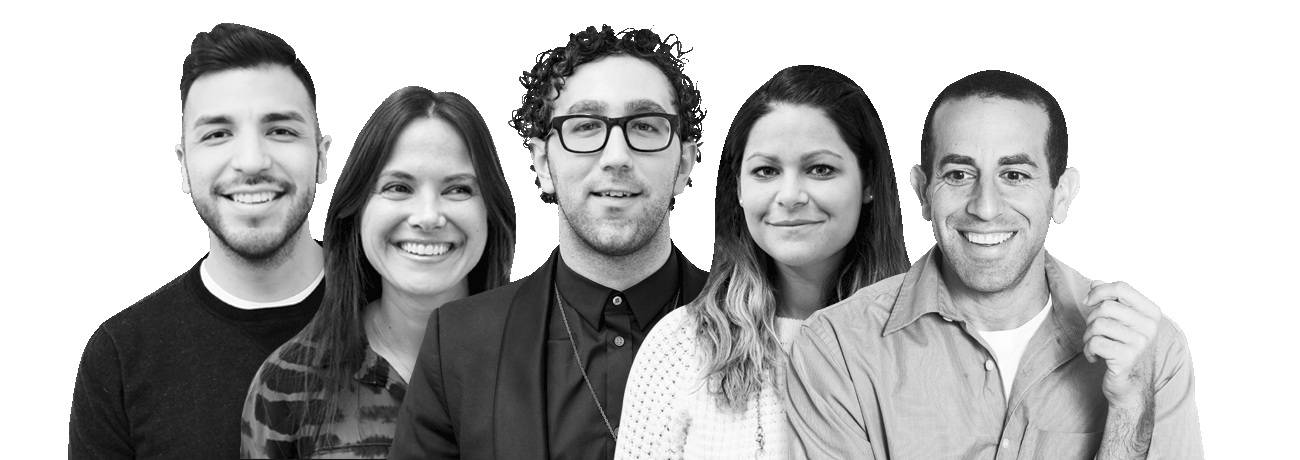
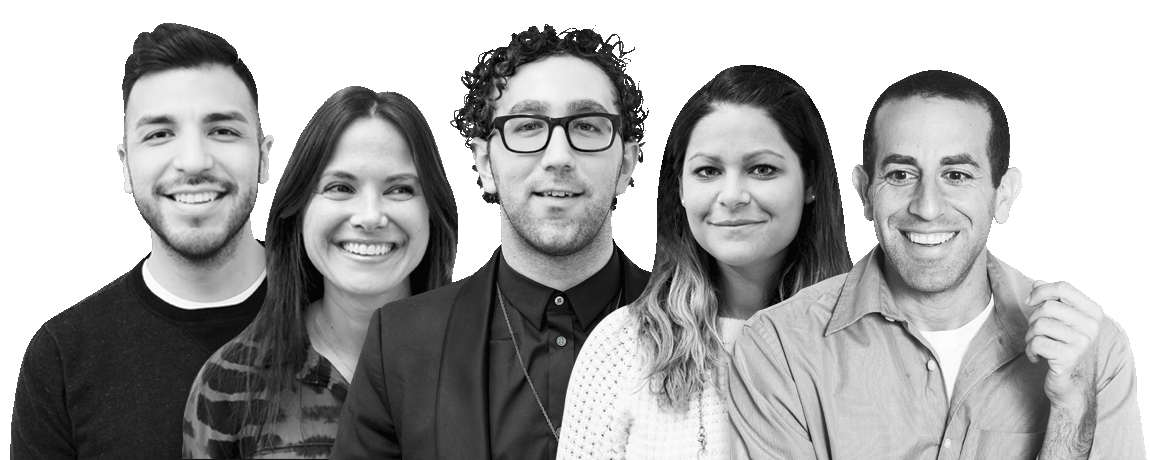
integrated jasny for the navbar

diff --git a/css/jasny-bootstrap.min.css b/css/jasny-bootstrap.min.css
@@ -1,0 +1,7 @@
+/*!
+ * Jasny Bootstrap v3.1.3 (http://jasny.github.io/bootstrap)
+ * Copyright 2012-2014 Arnold Daniels
+ * Licensed under Apache-2.0 (https://github.com/jasny/bootstrap/blob/master/LICENSE)
+ */
+
+.container-smooth{max-width:1170px}@media (min-width:1px){.container-smooth{width:auto}}.btn-labeled{padding-top:0;padding-bottom:0}.btn-label{position:relative;background:0 0;background:rgba(0,0,0,.15);display:inline-block;padding:6px 12px;left:-12px;border-radius:3px 0 0 3px}.btn-label.btn-label-right{left:auto;right:-12px;border-radius:0 3px 3px 0}.btn-lg .btn-label{padding:10px 16px;left:-16px;border-radius:5px 0 0 5px}.btn-lg .btn-label.btn-label-right{left:auto;right:-16px;border-radius:0 5px 5px 0}.btn-sm .btn-label{padding:5px 10px;left:-10px;border-radius:2px 0 0 2px}.btn-sm .btn-label.btn-label-right{left:auto;right:-10px;border-radius:0 2px 2px 0}.btn-xs .btn-label{padding:1px 5px;left:-5px;border-radius:2px 0 0 2px}.btn-xs .btn-label.btn-label-right{left:auto;right:-5px;border-radius:0 2px 2px 0}.nav-tabs-bottom{border-bottom:0;border-top:1px solid #ddd}.nav-tabs-bottom>li{margin-bottom:0;margin-top:-1px}.nav-tabs-bottom>li>a{border-radius:0 0 4px 4px}.nav-tabs-bottom>li>a:hover,.nav-tabs-bottom>li>a:focus,.nav-tabs-bottom>li.active>a,.nav-tabs-bottom>li.active>a:hover,.nav-tabs-bottom>li.active>a:focus{border:1px solid #ddd;border-top-color:transparent}.nav-tabs-left{border-bottom:0;border-right:1px solid #ddd}.nav-tabs-left>li{margin-bottom:0;margin-right:-1px;float:none}.nav-tabs-left>li>a{border-radius:4px 0 0 4px;margin-right:0;margin-bottom:2px}.nav-tabs-left>li>a:hover,.nav-tabs-left>li>a:focus,.nav-tabs-left>li.active>a,.nav-tabs-left>li.active>a:hover,.nav-tabs-left>li.active>a:focus{border:1px solid #ddd;border-right-color:transparent}.row>.nav-tabs-left{padding-right:0;padding-left:15px;margin-right:-1px;position:relative;z-index:1}.row>.nav-tabs-left+.tab-content{border-left:1px solid #ddd}.nav-tabs-right{border-bottom:0;border-left:1px solid #ddd}.nav-tabs-right>li{margin-bottom:0;margin-left:-1px;float:none}.nav-tabs-right>li>a{border-radius:0 4px 4px 0;margin-left:0;margin-bottom:2px}.nav-tabs-right>li>a:hover,.nav-tabs-right>li>a:focus,.nav-tabs-right>li.active>a,.nav-tabs-right>li.active>a:hover,.nav-tabs-right>li.active>a:focus{border:1px solid #ddd;border-left-color:transparent}.row>.nav-tabs-right{padding-left:0;padding-right:15px}.navmenu,.navbar-offcanvas{width:300px;height:auto;border-width:1px;border-style:solid;border-radius:4px}.navmenu-fixed-left,.navmenu-fixed-right,.navbar-offcanvas{position:fixed;z-index:1030;top:0;bottom:0;overflow-y:auto;border-radius:0}.navmenu-fixed-left,.navbar-offcanvas.navmenu-fixed-left{left:0;right:auto;border-width:0 1px 0 0}.navmenu-fixed-right,.navbar-offcanvas{left:auto;right:0;border-width:0 0 0 1px}.navmenu-nav{margin-bottom:10px}.navmenu-nav.dropdown-menu{position:static;margin:0;padding-top:0;float:none;border:none;-webkit-box-shadow:none;box-shadow:none;border-radius:0}.navbar-offcanvas .navbar-nav{margin:0}@media (min-width:768px){.navbar-offcanvas{width:auto;border-top:0;box-shadow:none}.navbar-offcanvas.offcanvas{position:static;display:block!important;height:auto!important;padding-bottom:0;overflow:visible!important}.navbar-offcanvas .navbar-nav.navbar-left:first-child{margin-left:-15px}.navbar-offcanvas .navbar-nav.navbar-right:last-child{margin-right:-15px}.navbar-offcanvas .navmenu-brand{display:none}}.navmenu-brand{display:block;font-size:18px;line-height:20px;padding:10px 15px;margin:10px 0}.navmenu-brand:hover,.navmenu-brand:focus{text-decoration:none}.navmenu-default,.navbar-default .navbar-offcanvas{background-color:#f8f8f8;border-color:#e7e7e7}.navmenu-default .navmenu-brand,.navbar-default .navbar-offcanvas .navmenu-brand{color:#777}.navmenu-default .navmenu-brand:hover,.navbar-default .navbar-offcanvas .navmenu-brand:hover,.navmenu-default .navmenu-brand:focus,.navbar-default .navbar-offcanvas .navmenu-brand:focus{color:#5e5e5e;background-color:transparent}.navmenu-default .navmenu-text,.navbar-default .navbar-offcanvas .navmenu-text{color:#777}.navmenu-default .navmenu-nav>.dropdown>a:hover .caret,.navbar-default .navbar-offcanvas .navmenu-nav>.dropdown>a:hover .caret,.navmenu-default .navmenu-nav>.dropdown>a:focus .caret,.navbar-default .navbar-offcanvas .navmenu-nav>.dropdown>a:focus .caret{border-top-color:#333;border-bottom-color:#333}.navmenu-default .navmenu-nav>.open>a,.navbar-default .navbar-offcanvas .navmenu-nav>.open>a,.navmenu-default .navmenu-nav>.open>a:hover,.navbar-default .navbar-offcanvas .navmenu-nav>.open>a:hover,.navmenu-default .navmenu-nav>.open>a:focus,.navbar-default .navbar-offcanvas .navmenu-nav>.open>a:focus{background-color:#e7e7e7;color:#555}.navmenu-default .navmenu-nav>.open>a .caret,.navbar-default .navbar-offcanvas .navmenu-nav>.open>a .caret,.navmenu-default .navmenu-nav>.open>a:hover .caret,.navbar-default .navbar-offcanvas .navmenu-nav>.open>a:hover .caret,.navmenu-default .navmenu-nav>.open>a:focus .caret,.navbar-default .navbar-offcanvas .navmenu-nav>.open>a:focus .caret{border-top-color:#555;border-bottom-color:#555}.navmenu-default .navmenu-nav>.dropdown>a .caret,.navbar-default .navbar-offcanvas .navmenu-nav>.dropdown>a .caret{border-top-color:#777;border-bottom-color:#777}.navmenu-default .navmenu-nav.dropdown-menu,.navbar-default .navbar-offcanvas .navmenu-nav.dropdown-menu{background-color:#e7e7e7}.navmenu-default .navmenu-nav.dropdown-menu>.divider,.navbar-default .navbar-offcanvas .navmenu-nav.dropdown-menu>.divider{background-color:#f8f8f8}.navmenu-default .navmenu-nav.dropdown-menu>.active>a,.navbar-default .navbar-offcanvas .navmenu-nav.dropdown-menu>.active>a,.navmenu-default .navmenu-nav.dropdown-menu>.active>a:hover,.navbar-default .navbar-offcanvas .navmenu-nav.dropdown-menu>.active>a:hover,.navmenu-default .navmenu-nav.dropdown-menu>.active>a:focus,.navbar-default .navbar-offcanvas .navmenu-nav.dropdown-menu>.active>a:focus{background-color:#d7d7d7}.navmenu-default .navmenu-nav>li>a,.navbar-default .navbar-offcanvas .navmenu-nav>li>a{color:#777}.navmenu-default .navmenu-nav>li>a:hover,.navbar-default .navbar-offcanvas .navmenu-nav>li>a:hover,.navmenu-default .navmenu-nav>li>a:focus,.navbar-default .navbar-offcanvas .navmenu-nav>li>a:focus{color:#333;background-color:transparent}.navmenu-default .navmenu-nav>.active>a,.navbar-default .navbar-offcanvas .navmenu-nav>.active>a,.navmenu-default .navmenu-nav>.active>a:hover,.navbar-default .navbar-offcanvas .navmenu-nav>.active>a:hover,.navmenu-default .navmenu-nav>.active>a:focus,.navbar-default .navbar-offcanvas .navmenu-nav>.active>a:focus{color:#555;background-color:#e7e7e7}.navmenu-default .navmenu-nav>.disabled>a,.navbar-default .navbar-offcanvas .navmenu-nav>.disabled>a,.navmenu-default .navmenu-nav>.disabled>a:hover,.navbar-default .navbar-offcanvas .navmenu-nav>.disabled>a:hover,.navmenu-default .navmenu-nav>.disabled>a:focus,.navbar-default .navbar-offcanvas .navmenu-nav>.disabled>a:focus{color:#ccc;background-color:transparent}.navmenu-inverse,.navbar-inverse .navbar-offcanvas{background-color:#222;border-color:#080808}.navmenu-inverse .navmenu-brand,.navbar-inverse .navbar-offcanvas .navmenu-brand{color:#999}.navmenu-inverse .navmenu-brand:hover,.navbar-inverse .navbar-offcanvas .navmenu-brand:hover,.navmenu-inverse .navmenu-brand:focus,.navbar-inverse .navbar-offcanvas .navmenu-brand:focus{color:#fff;background-color:transparent}.navmenu-inverse .navmenu-text,.navbar-inverse .navbar-offcanvas .navmenu-text{color:#999}.navmenu-inverse .navmenu-nav>.dropdown>a:hover .caret,.navbar-inverse .navbar-offcanvas .navmenu-nav>.dropdown>a:hover .caret,.navmenu-inverse .navmenu-nav>.dropdown>a:focus .caret,.navbar-inverse .navbar-offcanvas .navmenu-nav>.dropdown>a:focus .caret{border-top-color:#fff;border-bottom-color:#fff}.navmenu-inverse .navmenu-nav>.open>a,.navbar-inverse .navbar-offcanvas .navmenu-nav>.open>a,.navmenu-inverse .navmenu-nav>.open>a:hover,.navbar-inverse .navbar-offcanvas .navmenu-nav>.open>a:hover,.navmenu-inverse .navmenu-nav>.open>a:focus,.navbar-inverse .navbar-offcanvas .navmenu-nav>.open>a:focus{background-color:#080808;color:#fff}.navmenu-inverse .navmenu-nav>.open>a .caret,.navbar-inverse .navbar-offcanvas .navmenu-nav>.open>a .caret,.navmenu-inverse .navmenu-nav>.open>a:hover .caret,.navbar-inverse .navbar-offcanvas .navmenu-nav>.open>a:hover .caret,.navmenu-inverse .navmenu-nav>.open>a:focus .caret,.navbar-inverse .navbar-offcanvas .navmenu-nav>.open>a:focus .caret{border-top-color:#fff;border-bottom-color:#fff}.navmenu-inverse .navmenu-nav>.dropdown>a .caret,.navbar-inverse .navbar-offcanvas .navmenu-nav>.dropdown>a .caret{border-top-color:#999;border-bottom-color:#999}.navmenu-inverse .navmenu-nav.dropdown-menu,.navbar-inverse .navbar-offcanvas .navmenu-nav.dropdown-menu{background-color:#080808}.navmenu-inverse .navmenu-nav.dropdown-menu>.divider,.navbar-inverse .navbar-offcanvas .navmenu-nav.dropdown-menu>.divider{background-color:#222}.navmenu-inverse .navmenu-nav.dropdown-menu>.active>a,.navbar-inverse .navbar-offcanvas .navmenu-nav.dropdown-menu>.active>a,.navmenu-inverse .navmenu-nav.dropdown-menu>.active>a:hover,.navbar-inverse .navbar-offcanvas .navmenu-nav.dropdown-menu>.active>a:hover,.navmenu-inverse .navmenu-nav.dropdown-menu>.active>a:focus,.navbar-inverse .navbar-offcanvas .navmenu-nav.dropdown-menu>.active>a:focus{background-color:#000}.navmenu-inverse .navmenu-nav>li>a,.navbar-inverse .navbar-offcanvas .navmenu-nav>li>a{color:#999}.navmenu-inverse .navmenu-nav>li>a:hover,.navbar-inverse .navbar-offcanvas .navmenu-nav>li>a:hover,.navmenu-inverse .navmenu-nav>li>a:focus,.navbar-inverse .navbar-offcanvas .navmenu-nav>li>a:focus{color:#fff;background-color:transparent}.navmenu-inverse .navmenu-nav>.active>a,.navbar-inverse .navbar-offcanvas .navmenu-nav>.active>a,.navmenu-inverse .navmenu-nav>.active>a:hover,.navbar-inverse .navbar-offcanvas .navmenu-nav>.active>a:hover,.navmenu-inverse .navmenu-nav>.active>a:focus,.navbar-inverse .navbar-offcanvas .navmenu-nav>.active>a:focus{color:#fff;background-color:#080808}.navmenu-inverse .navmenu-nav>.disabled>a,.navbar-inverse .navbar-offcanvas .navmenu-nav>.disabled>a,.navmenu-inverse .navmenu-nav>.disabled>a:hover,.navbar-inverse .navbar-offcanvas .navmenu-nav>.disabled>a:hover,.navmenu-inverse .navmenu-nav>.disabled>a:focus,.navbar-inverse .navbar-offcanvas .navmenu-nav>.disabled>a:focus{color:#444;background-color:transparent}.alert-fixed-top,.alert-fixed-bottom{position:fixed;width:100%;z-index:1035;border-radius:0;margin:0;left:0}@media (min-width:992px){.alert-fixed-top,.alert-fixed-bottom{width:992px;left:50%;margin-left:-496px}}.alert-fixed-top{top:0;border-width:0 0 1px}@media (min-width:992px){.alert-fixed-top{border-bottom-right-radius:4px;border-bottom-left-radius:4px;border-width:0 1px 1px}}.alert-fixed-bottom{bottom:0;border-width:1px 0 0}@media (min-width:992px){.alert-fixed-bottom{border-top-right-radius:4px;border-top-left-radius:4px;border-width:1px 1px 0}}.offcanvas{display:none}.offcanvas.in{display:block}@media (max-width:767px){.offcanvas-xs{display:none}.offcanvas-xs.in{display:block}}@media (max-width:991px){.offcanvas-sm{display:none}.offcanvas-sm.in{display:block}}@media (max-width:1199px){.offcanvas-md{display:none}.offcanvas-md.in{display:block}}.offcanvas-lg{display:none}.offcanvas-lg.in{display:block}.canvas-sliding{-webkit-transition:top .35s,left .35s,bottom .35s,right .35s;transition:top .35s,left .35s,bottom .35s,right .35s}.offcanvas-clone{height:0!important;width:0!important;overflow:hidden!important;border:none!important;margin:0!important;padding:0!important;position:absolute!important;top:auto!important;left:auto!important;bottom:0!important;right:0!important;opacity:0!important}.table.rowlink td:not(.rowlink-skip),.table .rowlink td:not(.rowlink-skip){cursor:pointer}.table.rowlink td:not(.rowlink-skip) a,.table .rowlink td:not(.rowlink-skip) a{color:inherit;font:inherit;text-decoration:inherit}.table-hover.rowlink tr:hover td,.table-hover .rowlink tr:hover td{background-color:#cfcfcf}.btn-file{overflow:hidden;position:relative;vertical-align:middle}.btn-file>input{position:absolute;top:0;right:0;margin:0;opacity:0;filter:alpha(opacity=0);font-size:23px;height:100%;width:100%;direction:ltr;cursor:pointer}.fileinput{margin-bottom:9px;display:inline-block}.fileinput .form-control{padding-top:7px;padding-bottom:5px;display:inline-block;margin-bottom:0;vertical-align:middle;cursor:text}.fileinput .thumbnail{overflow:hidden;display:inline-block;margin-bottom:5px;vertical-align:middle;text-align:center}.fileinput .thumbnail>img{max-height:100%}.fileinput .btn{vertical-align:middle}.fileinput-exists .fileinput-new,.fileinput-new .fileinput-exists{display:none}.fileinput-inline .fileinput-controls{display:inline}.fileinput-filename{vertical-align:middle;display:inline-block;overflow:hidden}.form-control .fileinput-filename{vertical-align:bottom}.fileinput.input-group{display:table}.fileinput.input-group>*{position:relative;z-index:2}.fileinput.input-group>.btn-file{z-index:1}.fileinput-new.input-group .btn-file,.fileinput-new .input-group .btn-file{border-radius:0 4px 4px 0}.fileinput-new.input-group .btn-file.btn-xs,.fileinput-new .input-group .btn-file.btn-xs,.fileinput-new.input-group .btn-file.btn-sm,.fileinput-new .input-group .btn-file.btn-sm{border-radius:0 3px 3px 0}.fileinput-new.input-group .btn-file.btn-lg,.fileinput-new .input-group .btn-file.btn-lg{border-radius:0 6px 6px 0}.form-group.has-warning .fileinput .fileinput-preview{color:#8a6d3b}.form-group.has-warning .fileinput .thumbnail{border-color:#faebcc}.form-group.has-error .fileinput .fileinput-preview{color:#a94442}.form-group.has-error .fileinput .thumbnail{border-color:#ebccd1}.form-group.has-success .fileinput .fileinput-preview{color:#3c763d}.form-group.has-success .fileinput .thumbnail{border-color:#d6e9c6}.input-group-addon:not(:first-child){border-left:0}

diff --git a/css/styles.less b/css/styles.less
@@ -258,6 +258,12 @@ h5 a:hover {
 	color: @black-alpha;
 }
 // NAVBAR // ----------------------------------
+.navbar-toggle {
+	visibility: visible;
+	display: initial;
+	float: left;
+	margin-left: 30px;
+}
 @navbar-width: 300px;
 .navbar-default {
 	border-bottom: none;
@@ -319,43 +325,16 @@ h5 a:hover {
 	margin-bottom: 12px;
 }
 // hamburger
-.side-collapse {
+.navmenu {
 	background-color: @black;
-	top:@navbar-height;
-	bottom:0;
-	left:0;
-	width: @navbar-width;
-	position:fixed;
-	overflow:hidden;
-	transition:width .4s;
 }
-.collapse.in{
-	display:block !important;
-}
-.side-collapse-container{
-	width:100%;
-	position:relative;
-	left:0;
-	transition:left .4s;
-}
-.side-collapse-container.out{
- 	left:@navbar-width;
-}
-.side-collapse.in {
- 	width:0;
-}
-.side-collapse ul li,
-.side-collapse .social-logos {
-	width: @navbar-width;
+.navmenu-default {
+	border: none;
 }
 .sans-serif {
 	font-family: @font-family-sans-serif;
 }
-.side-collapse .social-logos li {
-	font-size: 85%;
-	color: #FFF;
-	margin-bottom: 0.5em;
-}
+
 .menu-content {
 	margin: 30px auto auto 30px;
 }
@@ -515,16 +494,14 @@ ul.navbar-yieldmo li {
 // TEAM // -------------------------------------
 #team {
 	background-color: @pink;
+	background-image: url('../img/yieldmo-team.png');
+	background-repeat: no-repeat;
+	background-position: bottom right;
+	background-size: 70%;
 }
 #team .row {
 	padding-top: 4em;
-}
-#team .team-content {
-}
-#team .thumb {
-	position: relative;
-}
-#team .thumb img {
+	padding-bottom: 4em;
 }
 
 // TWITTER // ----------------------------------

diff --git a/css/styles.css b/css/styles.css
@@ -209,6 +209,12 @@ h4 a:hover,
 h5 a:hover {
   color: rgba(38, 38, 38, 0.25);
 }
+.navbar-toggle {
+  visibility: visible;
+  display: initial;
+  float: left;
+  margin-left: 30px;
+}
 .navbar-default {
   border-bottom: none;
   background-color: #FFF;
@@ -266,42 +272,14 @@ h5 a:hover {
 .navbar-text {
   margin-bottom: 12px;
 }
-.side-collapse {
+.navmenu {
   background-color: #262626;
-  top: 54px;
-  bottom: 0;
-  left: 0;
-  width: 300px;
-  position: fixed;
-  overflow: hidden;
-  transition: width .4s;
 }
-.collapse.in {
-  display: block !important;
-}
-.side-collapse-container {
-  width: 100%;
-  position: relative;
-  left: 0;
-  transition: left .4s;
-}
-.side-collapse-container.out {
-  left: 300px;
-}
-.side-collapse.in {
-  width: 0;
-}
-.side-collapse ul li,
-.side-collapse .social-logos {
-  width: 300px;
+.navmenu-default {
+  border: none;
 }
 .sans-serif {
   font-family: "Apercu Regular", "Helvetica Neue", Helvetica, Arial, sans-serif;
-}
-.side-collapse .social-logos li {
-  font-size: 85%;
-  color: #FFF;
-  margin-bottom: 0.5em;
 }
 .menu-content {
   margin: 30px auto auto 30px;
@@ -440,12 +418,14 @@ ul.navbar-yieldmo li {
 }
 #team {
   background-color: #f27f8a;
+  background-image: url('../img/yieldmo-team.png');
+  background-repeat: no-repeat;
+  background-position: bottom right;
+  background-size: 70%;
 }
 #team .row {
   padding-top: 4em;
-}
-#team .thumb {
-  position: relative;
+  padding-bottom: 4em;
 }
 #twitter {
   padding-top: 3em;

diff --git a/js/scripts.js b/js/scripts.js
@@ -1,13 +1,11 @@
 jQuery(document).ready(function($) {
     
     // hamburger menu
-    // var sideslider = $('[data-toggle=collapse-side]');
-    // var sel = sideslider.attr('data-target');
-    // var sel2 = sideslider.attr('data-target-2');
-    // sideslider.click(function(event){
-    //     $(sel).toggleClass('in');
-    //     $(sel2).toggleClass('out');
-    // });
+    $(".menu-content a").click(function(){
+        // Close offcanvas nav
+        // offcanvas_selector is any valid css selector to get your offcanvas element
+        $('.navmenu').offcanvas('hide');
+    });
 
     // tabs
     $('#myTabs a').click(function (e) {

diff --git a/navigation.php b/navigation.php
@@ -1,51 +1,48 @@
 <!-- NAV - - - - - - - - - - - - - - - - - - - - - - - - - - - - -->
-<nav class="navbar navbar-default navbar-fixed-top" role="navigation">
-
-        <div class="navbar-header">
-            <button data-toggle="collapse-side" data-target=".side-collapse" data-target-2=".side-collapse-container" type="button" class="navbar-toggle pull-left">
-                <span class="icon-bar"></span>
-                <span class="icon-bar"></span>
-                <span class="icon-bar"></span>
-            </button>
-            <?php if ( is_home() || is_single()  ) { ?>
-                <a class="navbar-brand" href="<?php echo esc_url( home_url( '/blog/' ) ); ?>" title="home"><img src="<?php echo get_stylesheet_directory_uri() ?>/img/logo-blog.svg" title="logo" alt="Yieldmo logo" class="logo-blog img-responsive"></a>
-            <?php } else { ?>
-                <a class="navbar-brand" href="<?php echo esc_url( home_url( '/' ) ); ?>" title="home"><img src="<?php echo get_stylesheet_directory_uri() ?>/img/logo-navbar.svg" title="logo" alt="Yieldmo logo" class="img-responsive"></a>
-            <?php } ?>
-            <ul class="navbar-yieldmo navbar-text navbar-right text-right">
-                <li id="nav-contact"><a href="#contact">Contact</a></li>
-                <li id="nav-login" class="btn btn-default"><a href="#login">Log in</a></li>
-            </ul>
+<div class="navmenu navmenu-default navmenu-fixed-left offcanvas">
+    <div class="menu-content">
+        <ul class="text-white">
+            <li><a href="<?php echo esc_url( home_url( '/' ) ); ?>">Home</a></li>
+            <li><a href="<?php echo esc_url( home_url( '/' ) ); ?>#about">About</a></li>
+            <li><a href="#team">Team</a></li>
+            <li><a href="#blog">Blog</a></li>
+            <li><a href="#contact">Contact</a></li>
+        </ul>
+        <ul class="text-dark-gray">
+            <li><a href="#careers">Careers</a></li>
+            <li><a href="#terms">Terms of Service</a></li>
+            <li><a href="#press">Press &amp; Media</a></li>
+            <li><a href="#privacy">Privacy Policy</a></li>
+        </ul>
+        <ul class="social-logos">
+            <li>Follow us</li>
+            <?php $on = "Yieldmo on"?>
+            <li><a href="https://www.facebook.com/Yieldmo" title="<?php echo $on?> Facebook" target="_blank"><img src="<?php echo get_stylesheet_directory_uri() ?>/img/social-logos/logo-facebook.svg" class="img-responsive"></a></li>
+            <li><a href="https://twitter.com/yieldmo" title="<?php echo $on?> Twitter" target="_blank"><img src="<?php echo get_stylesheet_directory_uri() ?>/img/social-logos/logo-twitter.svg" class="img-responsive"></a></li>
+            <li><a href="https://www.linkedin.com/company/yieldmo" title="<?php echo $on?> Linkedin" target="_blank"><img src="<?php echo get_stylesheet_directory_uri() ?>/img/social-logos/logo-linkedin.svg" class="img-responsive"></a></li>
+            <li><a href="http://vimeo.com/adformatlab" title="<?php echo $on ?> Vimeo" target="_blank"><img src="<?php echo get_stylesheet_directory_uri() ?>/img/social-logos/logo-vimeo.svg" class="img-responsive"></a></li>
+        </ul>
+        <div class="made-in-nyc">
+            <img src="<?php echo get_stylesheet_directory_uri() ?>/img/made-in-nyc.png" title="Made in NYC" class="img-responsive">
         </div>
-        
-        <div class="side-collapse in">
-            <div class="menu-content">
-                <ul class="text-white">
-                    <li><a href="<?php echo esc_url( home_url( '/' ) ); ?>">Home</a></li>
-                    <li><a href="<?php echo esc_url( home_url( '/' ) ); ?>#about">About</a></li>
-                    <li><a href="#team">Team</a></li>
-                    <li><a href="#blog">Blog</a></li>
-                    <li><a href="#contact">Contact</a></li>
-                </ul>
-                <ul class="text-dark-gray">
-                    <li><a href="#careers">Careers</a></li>
-                    <li><a href="#terms">Terms of Service</a></li>
-                    <li><a href="#press">Press &amp; Media</a></li>
-                    <li><a href="#privacy">Privacy Policy</a></li>
-                </ul>
-                <ul class="social-logos">
-                    <li>Follow us</li>
-                    <?php $on = "Yieldmo on"?>
-                    <li><a href="https://www.facebook.com/Yieldmo" title="<?php echo $on?> Facebook" target="_blank"><img src="<?php echo get_stylesheet_directory_uri() ?>/img/social-logos/logo-facebook.svg" class="img-responsive"></a></li>
-                    <li><a href="https://twitter.com/yieldmo" title="<?php echo $on?> Twitter" target="_blank"><img src="<?php echo get_stylesheet_directory_uri() ?>/img/social-logos/logo-twitter.svg" class="img-responsive"></a></li>
-                    <li><a href="https://www.linkedin.com/company/yieldmo" title="<?php echo $on?> Linkedin" target="_blank"><img src="<?php echo get_stylesheet_directory_uri() ?>/img/social-logos/logo-linkedin.svg" class="img-responsive"></a></li>
-                    <li><a href="http://vimeo.com/adformatlab" title="<?php echo $on ?> Vimeo" target="_blank"><img src="<?php echo get_stylesheet_directory_uri() ?>/img/social-logos/logo-vimeo.svg" class="img-responsive"></a></li>
-                </ul>
-                <div class="made-in-nyc">
-                    <img src="<?php echo get_stylesheet_directory_uri() ?>/img/made-in-nyc.png" title="Made in NYC" class="img-responsive">
-                </div>
-            </div>
-        </div><!--/.nav-collapse -->
-</nav>
+    </div>
+</div>
+<div class="navbar navbar-default navbar-fixed-top">
+    <button type="button" class="navbar-toggle" data-toggle="offcanvas" data-target=".navmenu" data-canvas="body">
+        <span class="icon-bar"></span>
+        <span class="icon-bar"></span>
+        <span class="icon-bar"></span>
+    </button>
+    <?php if ( is_home() || is_single()  ) { ?>
+        <a class="navbar-brand" href="<?php echo esc_url( home_url( '/blog/' ) ); ?>" title="home"><img src="<?php echo get_stylesheet_directory_uri() ?>/img/logo-blog.svg" title="logo" alt="Yieldmo logo" class="logo-blog img-responsive"></a>
+    <?php } else { ?>
+        <a class="navbar-brand" href="<?php echo esc_url( home_url( '/' ) ); ?>" title="home"><img src="<?php echo get_stylesheet_directory_uri() ?>/img/logo-navbar.svg" title="logo" alt="Yieldmo logo" class="img-responsive"></a>
+    <?php } ?>
+    <ul class="navbar-yieldmo navbar-text navbar-right text-right">
+        <li id="nav-contact"><a href="#contact">Contact</a></li>
+        <li id="nav-login" class="btn btn-default"><a href="#login">Log in</a></li>
+    </ul>
+</div>
+
 <div id="spacer"></div>
 

diff --git a/header.php b/header.php
@@ -12,6 +12,7 @@
 		<title><?php bloginfo('name');?> &mdash; <?php echo get_bloginfo ( 'description' );  ?></title>
 		<!-- CSS - - - - - - - - - - - - - - - -->
 		<link href="<?php echo get_stylesheet_directory_uri() ?>/css/bootstrap.min.css" rel="stylesheet" media="screen">
+		<link href="<?php echo get_stylesheet_directory_uri() ?>/css/jasny-bootstrap.min.css" rel="stylesheet" media="screen">
 		<link href="<?php echo get_stylesheet_directory_uri() ?>/css/bootstrap-touch-carousel.css" rel="stylesheet" media="screen">
 		<link href="<?php echo get_stylesheet_directory_uri() ?>/css/styles.css" rel="stylesheet" media="screen">
 		<link rel="stylesheet" href="//f.fontdeck.com/s/css/5lDZkZYzUY6kLuxHyyfRPYqFU4o/<?php echo $_SERVER['SERVER_NAME']; ?>/50640.css" type="text/css" />

diff --git a/page-home.php b/page-home.php
@@ -24,7 +24,7 @@
  */
 ?>
 
-<div class="side-collapse-container">
+<div class="content-wrapper">
 
 <!-- INTRO CAROUSEL - - - - - - - - - - - - -  -->
 <?php //echo do_shortcode('[image-carousel showcaption="true" interval="5000"]'); ?>
@@ -136,7 +136,7 @@
     <?php endif;?>
 </section> <!-- /#contact -->
 
-</div> <!-- /.side-collapse-container -->
+</div> <!-- /.content-wrapper -->
 
 <!-- FOOTER - - - - - - - - - - - - - - - - - - -->
 <?php get_footer(); ?>

diff --git a/content-team.php b/content-team.php
@@ -6,9 +6,6 @@
 					<p><?php the_content(); ?></p>
 					<h5><a href="<?php echo get_permalink( 64 ); ?>" title="" class="btn btn-default btn-afl">Careers</a></h5>
         	</div>
-        	<div class="col-md-8">
-	    		<div class="thumb"><?php the_post_thumbnail('large', array( 'class' => '' )); ?></div>
-	        </div>
 	    </div>
 	</div>
 <?php endwhile; ?>
